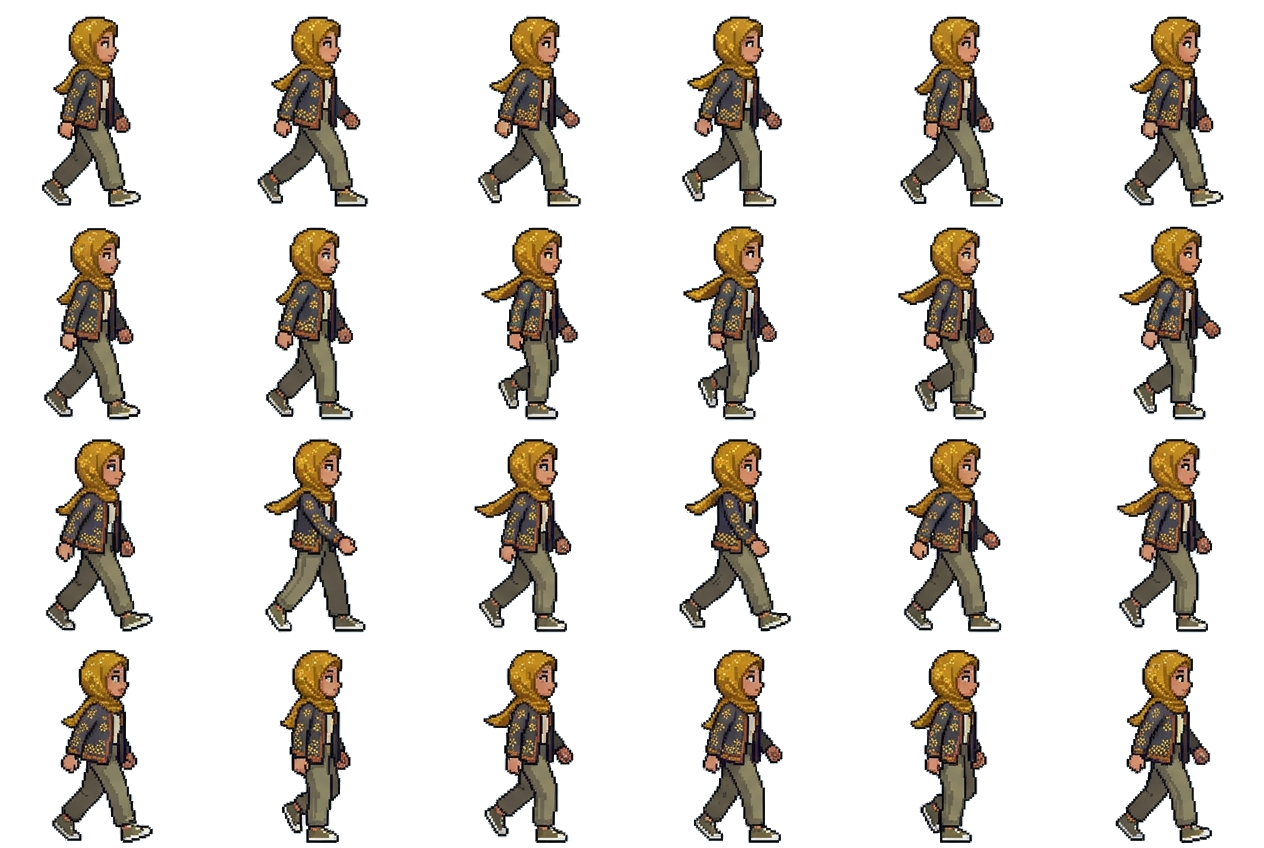
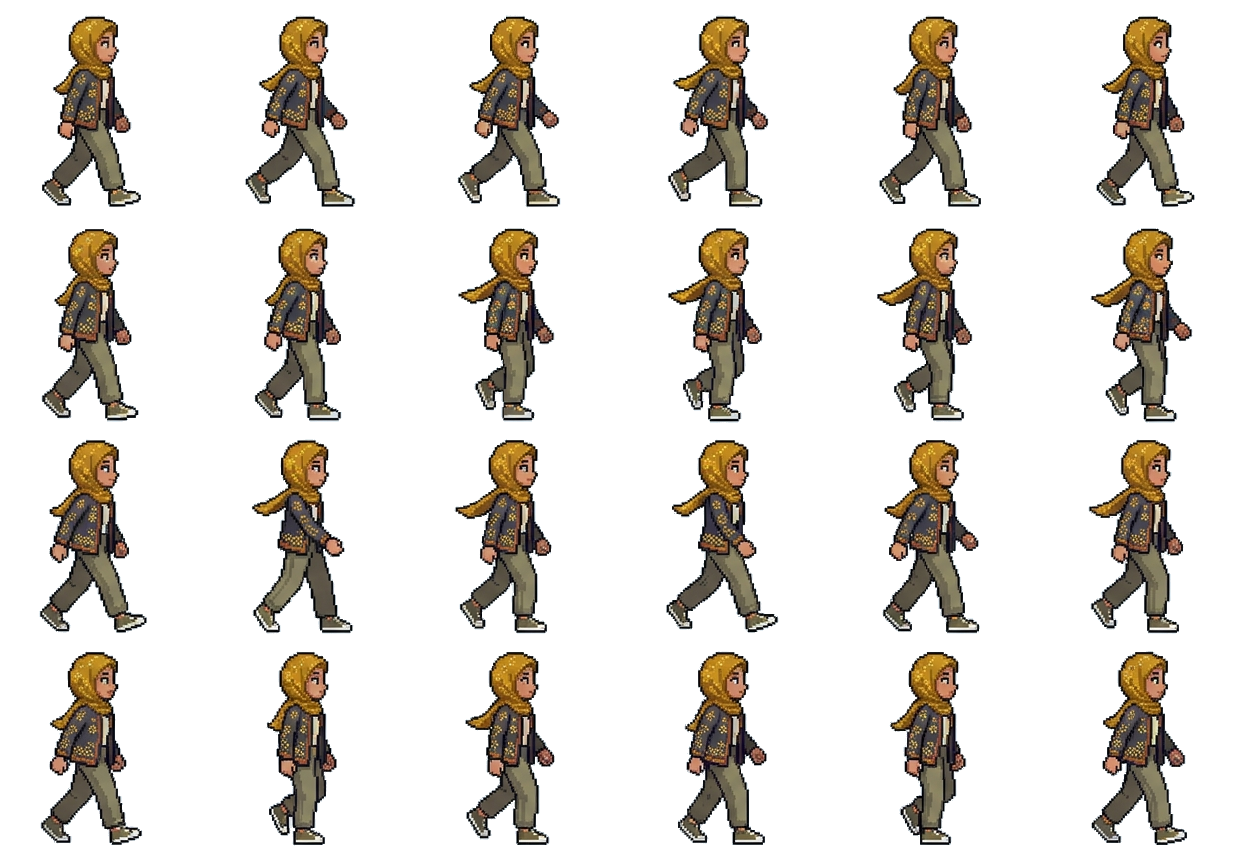
fix(animation): stabilize 24-frame spritesheet alignment, integer grid locking, and anti-stutter tick pacing

diff --git a/src/components/GameCanvas.tsx b/src/components/GameCanvas.tsx
@@ -285,16 +285,18 @@ export const GameCanvas: React.FC<GameCanvasProps> = ({
         companion.vx = 0;
       }
 
-      // 4. Update Animations (24-Frame Walk Cycles)
+      // 4. Update Animations (24-Frame Walk Cycles with Strict Integer Pacing)
       // Active anim
       active.animTimer++;
       const isActiveMoving = Math.abs(active.vx) > 0.1;
       if (isActiveMoving) {
-        // Increment 24-frame walk timer with subframe precision for buttery fluid stepping
-        active.walkTimer += isRun ? 0.75 : 0.45;
-        active.walk24Frame = Math.floor(active.walkTimer) % 24;
-
-        active.pose = isRun ? (Math.floor(active.walkTimer / 3) % 2 === 0 ? "run_1" : "run_2") : "walk_1";
+        // Integer-locked cadence: walk advances every 2 ticks (30fps), run advances every 1 tick (60fps)
+        const walkStep = isRun ? 1 : 2;
+        if (active.animTimer % walkStep === 0) {
+          active.walk24Frame = (active.walk24Frame + 1) % 24;
+        }
+        active.walkTimer++;
+        active.pose = isRun ? (Math.floor(active.walkTimer / 6) % 2 === 0 ? "run_1" : "run_2") : "walk_1";
       } else {
         active.walkTimer = 0;
         if (isDialogueOpen) {
@@ -308,8 +310,12 @@ export const GameCanvas: React.FC<GameCanvasProps> = ({
       companion.animTimer++;
       const isCompanionMoving = Math.abs(companion.vx) > 0.1;
       if (isCompanionMoving) {
-        companion.walkTimer += isRun ? 0.75 : 0.45;
-        companion.pose = isRun ? (Math.floor(companion.walkTimer / 3) % 2 === 0 ? "run_1" : "run_2") : "walk_1";
+        const compStep = isRun ? 1 : 2;
+        if (companion.animTimer % compStep === 0) {
+          companion.walk24Frame = (companion.walk24Frame + 1) % 24;
+        }
+        companion.walkTimer++;
+        companion.pose = isRun ? (Math.floor(companion.walkTimer / 6) % 2 === 0 ? "run_1" : "run_2") : "walk_1";
       } else {
         companion.walkTimer = 0;
         companion.pose = "idle_stand";
@@ -438,12 +444,12 @@ export const GameCanvas: React.FC<GameCanvasProps> = ({
       // Layer 4.5: Gerobak Pisang Epe & Saraba (24-Frame Micro-Animation Sheet)
       const gerobakX = 1120 - camX;
       if (gerobakImg) {
-        // 24 frames arranged in 6 cols x 4 rows
-        const gFrame = Math.floor(globalTimer / 4) % 24;
+        // 24 frames arranged in 6 cols x 4 rows with stabilized integer 210x212 grid
+        const gFrame = Math.floor(globalTimer / 3) % 24;
         const gCol = gFrame % 6;
         const gRow = Math.floor(gFrame / 6);
-        const gFrameW = 1264 / 6;
-        const gFrameH = 848 / 4;
+        const gFrameW = 210;
+        const gFrameH = 212;
         const gSx = gCol * gFrameW;
         const gSy = gRow * gFrameH;
         ctx.drawImage(gerobakImg, gSx, gSy, gFrameW, gFrameH, gerobakX, GROUND_Y - 138, 225, 150);
@@ -478,20 +484,32 @@ export const GameCanvas: React.FC<GameCanvasProps> = ({
       // Layer 6: Draw Characters with 24-Frame Walk Engine
       const renderCharacter = (
         charId: CharacterId,
-        pos: { x: number; y: number; vx: number; facingLeft: boolean; pose: CharacterPose; walkTimer: number },
+        pos: { x: number; y: number; vx: number; facingLeft: boolean; pose: CharacterPose; walkTimer: number; walk24Frame: number },
         isCurrentActive: boolean
       ) => {
         const isMoving = Math.abs(pos.vx) > 0.1;
         const screenX = pos.x - camX;
         const screenY = pos.y - 100;
 
-        // 1. If Jihan is walking, render with ultra-fluid 24-frame walk cycle!
-        if (charId === "jihan" && isMoving && jihanWalkImg) {
-          const frame24 = Math.floor(pos.walkTimer) % 24;
-          const col = frame24 % 6;
-          const row = Math.floor(frame24 / 6);
-          const frameW = 1264 / 6;
-          const frameH = 848 / 4;
+        // Special emote check (dialogue talk, inspect, happy) -> use 10-pose sheet
+        const isSpecialEmote = pos.pose === "talk" || pos.pose === "inspect" || pos.pose === "happy";
+
+        // 1. If Jihan and walk sheet is loaded and not performing special emote:
+        if (charId === "jihan" && jihanWalkImg && !isSpecialEmote) {
+          let col = 0;
+          let row = 0;
+          if (isMoving) {
+            const frame24 = pos.walk24Frame % 24;
+            col = frame24 % 6;
+            row = Math.floor(frame24 / 6);
+          } else {
+            // Idle stance from 24-frame sheet (frame 0) with seamless scale and zero popping
+            col = 0;
+            row = 0;
+          }
+
+          const frameW = 210;
+          const frameH = 212;
           const sx = col * frameW;
           const sy = row * frameH;
           const destW = 86;
@@ -517,8 +535,8 @@ export const GameCanvas: React.FC<GameCanvasProps> = ({
           let row = 0;
 
           if (isMoving) {
-            // Fluid stepping cycle from poses
-            const stepPhase = Math.floor(pos.walkTimer * 0.8) % 3;
+            // Smooth 3-frame stepping cadence for 10-pose fallback
+            const stepPhase = Math.floor(pos.walkTimer / 6) % 3;
             col = stepPhase === 0 ? 2 : stepPhase === 1 ? 3 : 4;
             row = 0;
           } else {
